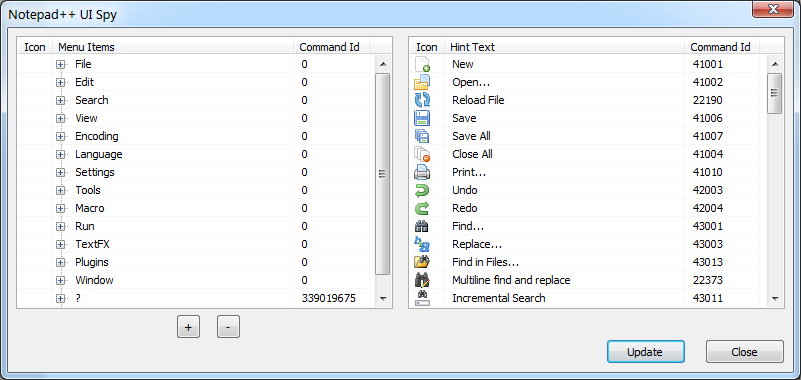
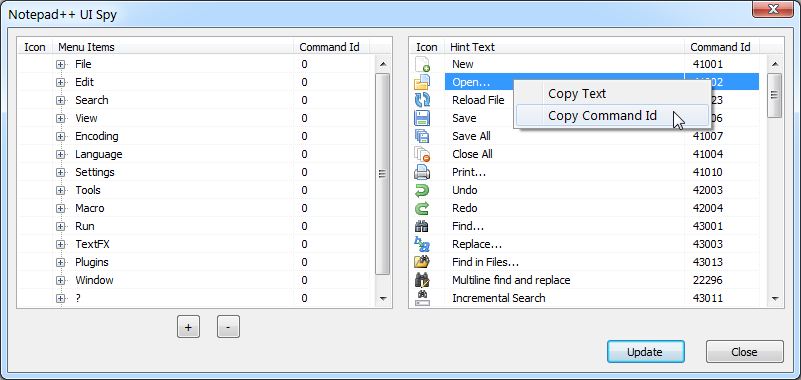
Released v1.0.1

diff --git a/README.md b/README.md
@@ -9,7 +9,7 @@ Author: Andreas Heim, 2018
 
 With this plugin you can explore the main menu structure and the toolbar of Notepad++ to figure out which menu command ids are assigned to menu items and toolbar buttons.
 
-You can left-click on menu item and toolbar button entries to execute the related command.
+You can left-click on menu item and toolbar button entries to execute the related command. With a right-click to the items a context menu pops up where you can select to copy the item text or its menu command id to the clipboard.
 
 Both the menu item tree and the toolbar button list provide full-text search. Start typing while one of them is focused to make the first matching item getting highlighted.
 
@@ -42,6 +42,11 @@ The following steps depend on the version of Notepad++ you use.
 
 
 # History
+
+v1.0.1 - December 2018
+- fixed: Sometimes Command Id column of menu entries tree shows invalid content.
+- enhanced: Both menu item tree and toolbar button list provide a context menu to copy the selected element's text or menu command id to clipboard.
+
 
 v1.0 - December 2018
 - Initial version
